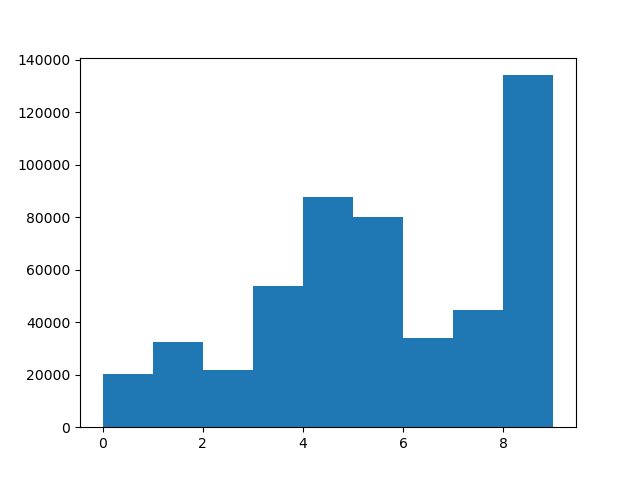
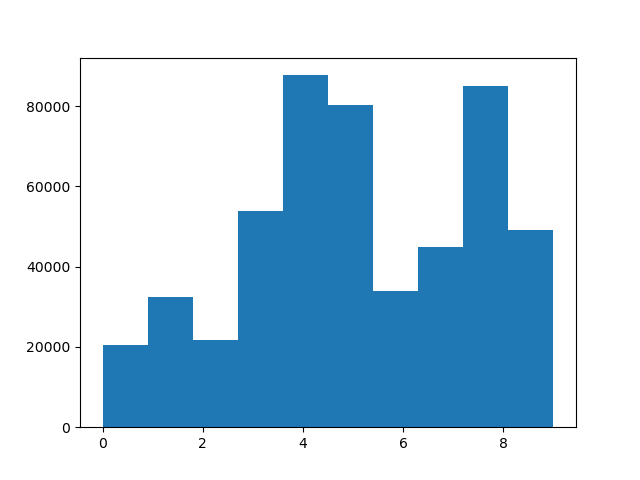
fixed histogram error

diff --git a/main.py b/main.py
@@ -69,7 +69,7 @@ if __name__ == '__main__':
     end_time = timeit.default_timer()
     print("Time (s): ", end_time - start_time)
 
-    plt.hist(output_img.flatten(), bins=pts + 1)
+    plt.hist(output_img.flatten(), bins=pts + 2)
     plt.savefig('output/hist.png')
 
     # Scikit-image comparison
@@ -81,7 +81,7 @@ if __name__ == '__main__':
     # corr_img = Image.fromarray(correct_lbp)
     # corr_img.save('./output/res-cor.jpg', 'jpeg')
     #
-    # plt.hist(correct_lbp.ravel(), bins=pts + 1)
+    # plt.hist(correct_lbp.ravel(), bins=pts + 2)
     # plt.savefig('output/hist-cor.png')
 
     out_img = Image.fromarray(output_img)

diff --git a/main_par.py b/main_par.py
@@ -121,7 +121,7 @@ if __name__ == '__main__':
         print("Time (s):", time, ", Processes:", processes)
     print("Process-Times:", times)
 
-    plt.hist(output_img.flatten(), bins=pts+1)
+    plt.hist(output_img.flatten(), bins=pts+2)
     plt.savefig('output/hist.png')
 
     out_img = Image.fromarray(output_img)
